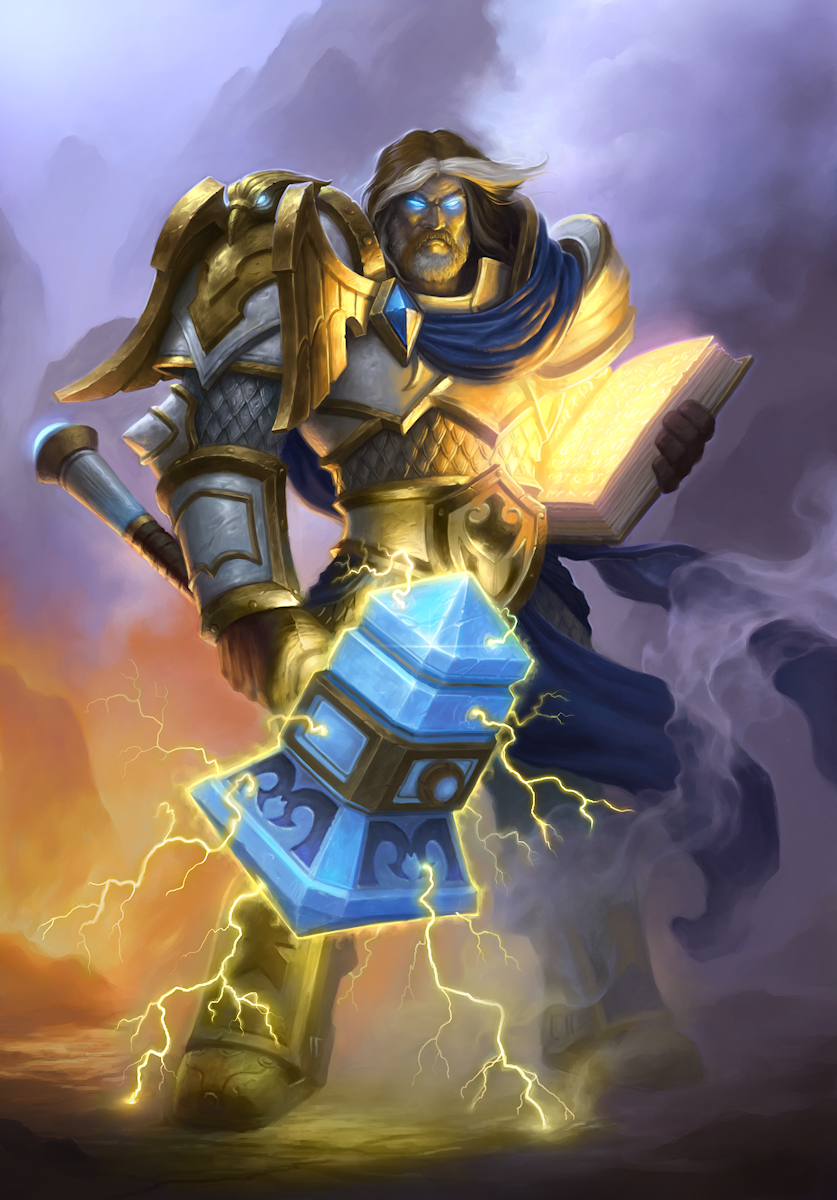
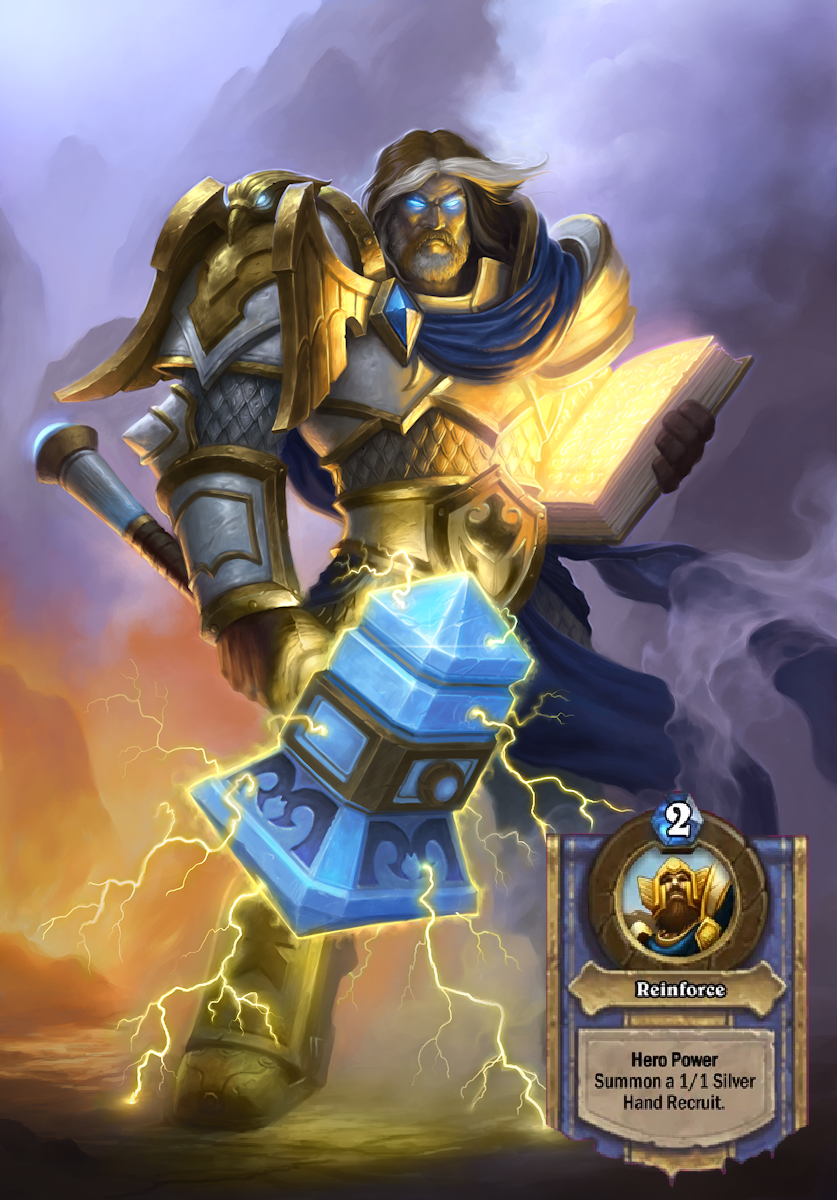
Popis hrdinů warrior a paladin + kartičky

Changed region(s): [[0.6523, 0.6475, 0.994, 0.9867]]

diff --git a/heroes.html b/heroes.html
@@ -55,11 +55,63 @@
         </div>
     </nav>
     <div class="container pt-5">
-        <h1 class="text-center">Jak si vybrat hrdinu?</h1>
+        <h1 class="text-center mt-1">Jak vybrat hrdinu?</h1>
         <p>Výběr správného hrdniny v Hearthstonu je velmi důležitý, určuje rychlost a styl hry. Každý hrdina má svůj základní kit schopností, ale samotné tempo zápasu je určeno deckem který si setavíte. Zde vám nabízím krátký showcase unikátních karet pro třídy a schopnotstí jednotlivých postav.</p>    
-        <div class="col-md-4">
+        <div class="row">
+        <div class="col-md-5">
         <img src="obrazky\Paladin.png" alt="Paladin-Hero" class="img-fluid">
     </div>
+    <div class="col-md-7 text-center">
+        <h3>Paladin</h3>
+        <p>Schopnost hrdiny: Vyvolá jednoho 1/1 stříbrného ručního rekruta</p>
+        <h5>Legendární karty v aktuální rotaci core balíčku</h5>
+        <div class="row">
+            <div class="col-md-4 col-xs-12">
+            <img src="obrazky\ThePurator.webp" alt="ThePurator" class="img-fluid">
+        </div>
+        <div class="col-md-4 col-xs-12">
+            <img src="obrazky\TirionFordring.webp" alt="TirionFordring" class="img-fluid">
+        </div>
+        <div class="col-md-4 col-xs-12">
+            <img src="obrazky\TheCountess.webp" alt="TheCountess" class="img-fluid">
+        </div>
+        <div class="col-md-4 offset-md-2 col-xs-12">
+            <img src="obrazky\TheLeviathan.webp" alt="TheLeviathan" class="img-fluid">
+        </div>
+        <div class="col-md-4 col-xs-12">
+            <img src="obrazky\Anachronos.webp" alt="Anachronos" class="img-fluid">
+        </div>
+        </div>
+        </div>
+    </div>
+    <div class="row pt-5">
+    <div class="col-md-7 text-center">
+        <h3>Warrior</h3>
+        <p>Schopnost hrdiny: Získá +2 k brnění, které blokuje příší utžené poškození</p>
+        <h5>Legendární karty v aktuální rotaci core balíčku</h5>
+        <div class="row">
+            <div class="col-md-4 col-xs-12">
+            <img src="obrazky\JusticarTrueheart.webp" alt="JusticarTrueheart" class="img-fluid">
+        </div>
+        <div class="col-md-4 col-xs-12">
+            <img src="obrazky\BaronGeddon.webp" alt="BaronGeddon" class="img-fluid">
+        </div>
+        <div class="col-md-4 col-xs-12">
+            <img src="obrazky\Alexstrasza.webp" alt="Alexstrasza" class="img-fluid">
+        </div>
+        <div class="col-md-4 offset-md-2 col-xs-12">
+            <img src="obrazky\GrommashHellscream.webp" alt="GrommashHellscream" class="img-fluid">
+        </div>
+        <div class="col-md-4 col-xs-12">
+            <img src="obrazky\RagnarosTheFirelord.webp" alt="RagnarosTheFirelord" class="img-fluid">
+        </div>
+        </div>
+        </div>
+        <div class="col-md-5">
+            <img src="obrazky\Warrior.png" alt="Warrior-hero" class="img-fluid">
+        </div>
+    </div>
+</div>
     </div>
 </body>
 </html>
